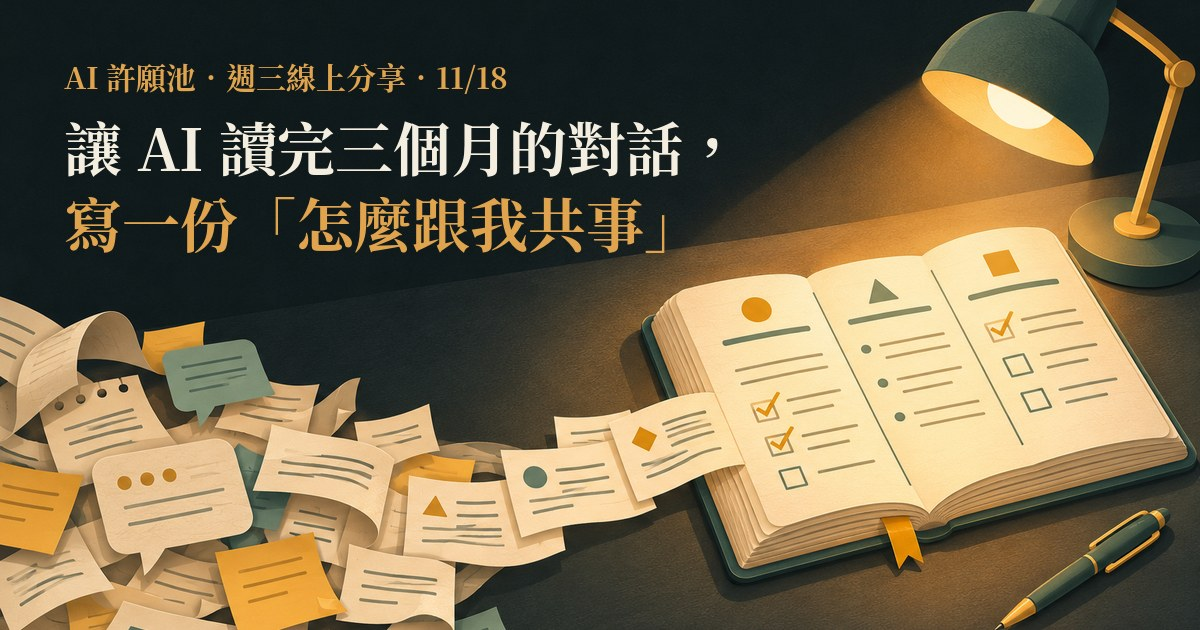
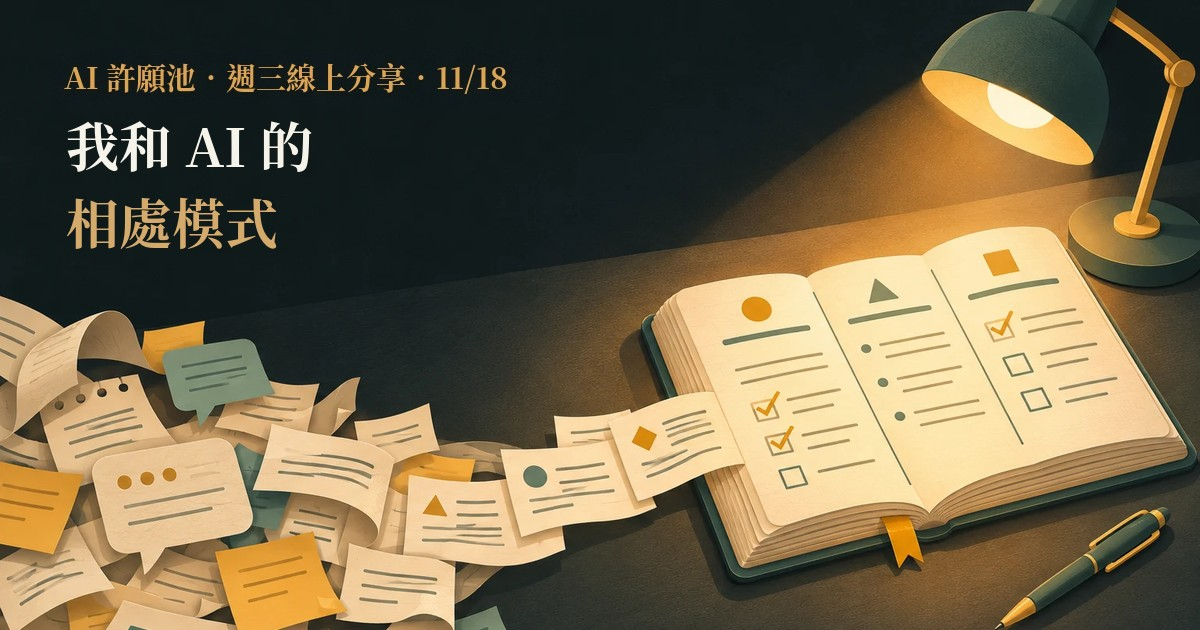
活動頁 11/18：題目改為「我和 AI 的相處模式」，封面同步

diff --git a/events/ai-profile-2026-11-18.md b/events/ai-profile-2026-11-18.md
@@ -1,7 +1,7 @@
 ---
 layout: event
-title: 讓 AI 讀完三個月的對話，寫一份「怎麼跟我共事」
-subtitle: 161 場對話、474 個記憶檔，整理成下一個 AI 接手就能用的說明書。講做法，也講 AI 讀錯了哪裡。
+title: 我和 AI 的相處模式
+subtitle: 讓 AI 讀完一年多的對話紀錄，整理出我怎麼跟它講話、它最常犯什麼錯，還數了我生氣幾次。
 permalink: /events/ai-profile-2026-11-18/
 event_batch: ai-profile-2026-11-18
 event_date: "2026-11-18"
@@ -16,20 +16,22 @@ event_closed: true
 form_closed_heading: 這場不用報名
 form_closed_message: 11/18 週三 20:00 開始，免費分享，直接從頁面上的 Google Meet 連結加入。
 event_community_url: https://line.me/ti/g2/xshYqZH3DLsqO8XNipmG3abL_KM6DORU7da5Lw?utm_source=invitation&utm_medium=link_copy&utm_campaign=ai-profile-2026-11-18
-share-description: 11/18 週三分享：讓 AI 把三個月的對話紀錄與記憶檔讀完，整理成一份「怎麼跟我共事」的說明書，再由本人逐段批改。講做法，最後有一段可以帶回去用的提示。
+share-description: 11/18 週三分享：我和 AI 的相處模式。讓 AI 讀完 Claude Code、Codex、Copilot、Gemini 一年多的對話紀錄，整理出短回覆的意思、哪些事它可以自己做、最常被退件的十二件事，還有每個月我生氣、催促、稱讚的次數。最後帶回去兩個檢查和一支量測腳本。
 ---
 
 > 11/18 週三 20:00 開始，預計 75 分鐘。免費，不用報名，<a href="https://meet.google.com/hex-gsvc-uyt" target="_blank" rel="noopener">直接加入 Google Meet →</a>
 
-用 AI 做事久了，每次開新對話都要把同樣的規矩再講一遍。AI 其實有記，記憶檔累積到 474 個，同一條規則卻有三種寫法。這晚會聊我怎麼讓 AI 把三個月的對話紀錄與記憶檔全部讀完，整理成一份說明書，再自己逐段批改。
+上週有個 vibe coding 的朋友，系統改到跑不動來找我求救，想知道我是怎麼用 AI 的。我想了一下，乾脆讓 AI 把我跟它的對話紀錄全部讀完，整理出我們是怎麼相處的。
+
+紀錄從 2025 年 7 月到現在，分散在 Claude Code、Codex、Copilot、Gemini 四個工具裡。這晚講整理出來的結果，也講 AI 整理錯的地方。
 
 ## 這晚會聊什麼
 
-- **原料從哪裡來**：對話紀錄本來就存在電腦裡。先只留自己打的字，161 場剩下八千多則。
-- **分七路同時讀**：每一路只讀一種原料，交一份筆記，每一條都附原話與出處，推測要標出來。
-- **三個成果**：短回覆對照表（「好」只管剛才那一則）、授權地圖（可以自己做完、每次都要問、不准碰）、最常被退件的十二件事。
-- **AI 讀錯的地方**：做成一頁可以逐段點「對、部分對、不對」的網頁，批了 63 項。有出處擋得住編造，擋不住誤讀。
-- **寫進說明書了，有照做嗎**：回頭把紀錄統計一次，寫進去的規則下一週照樣犯，同一條規則換個模型差十幾倍。所以一再犯的事，要改成會擋下來的檢查。
-- **帶回去做一遍**：四個步驟與一段可以直接用的提示。
+- **我怎麼跟 AI 講話**：訊息多半 5 到 40 個字，一則一件事。「好」只對剛才那一則有效，「哦」只是聽到了。整理成一張短回覆對照表。
+- **哪些事 AI 可以自己做**：可以自己做完的、每次都要問的、不准碰的，整理成一張授權地圖。
+- **最常被退件的十二件事**：做完不回報、回報變英文、兩隻左手想用鏡射救……每一件都附當時的原話。
+- **我生氣幾次**：每個月生氣、催促、稱讚的次數做成圖，標上當時在做哪個專案。用關鍵字抓「爆粗口」抓到 24 次，逐句看過只有 1 次，所以改成讓 AI 一則一則判斷，再由我抽查準不準。
+- **寫成規則有沒有用**：回頭量 AI 有沒有照做。有的幾乎不再犯，有的寫了照樣犯，差在哪裡。
+- **帶回去用的**：兩個檢查（回報變整則英文就退回、下 `nohup` 這類指令前先擋）和一支量測腳本，程式碼都在講義裡。
 
-適合已經用 AI 做事一陣子、覺得一直在重教同一件事的人。不限工具，示範用的是 Claude Code。
+適合已經用 AI 做事一陣子的人，想看別人怎麼跟 AI 相處的也歡迎。示範用的是 Claude Code，其他工具也有對應的做法。
